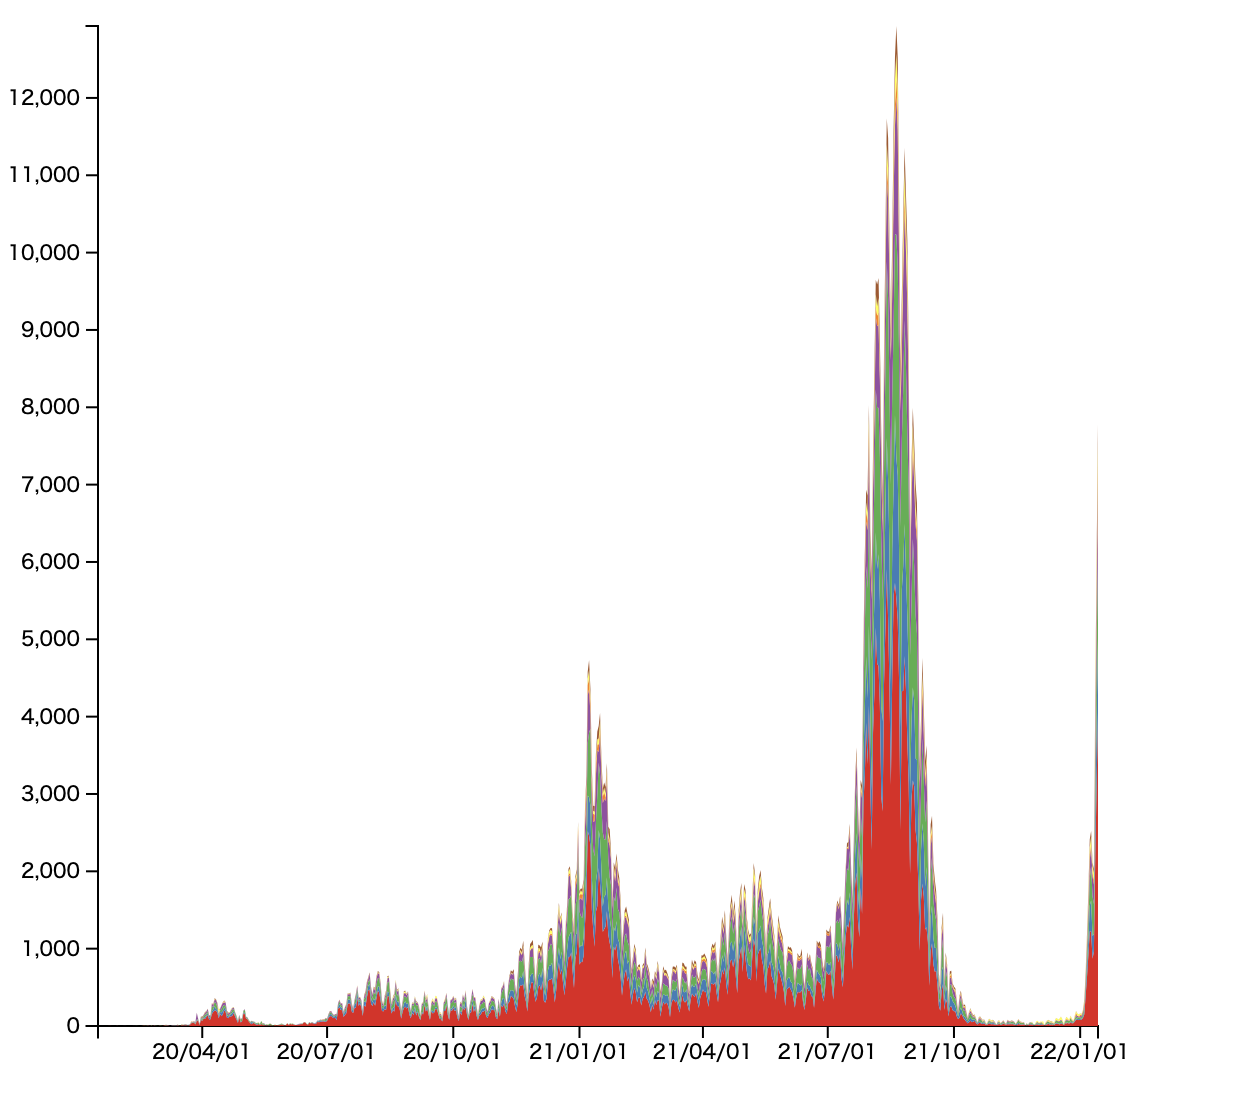
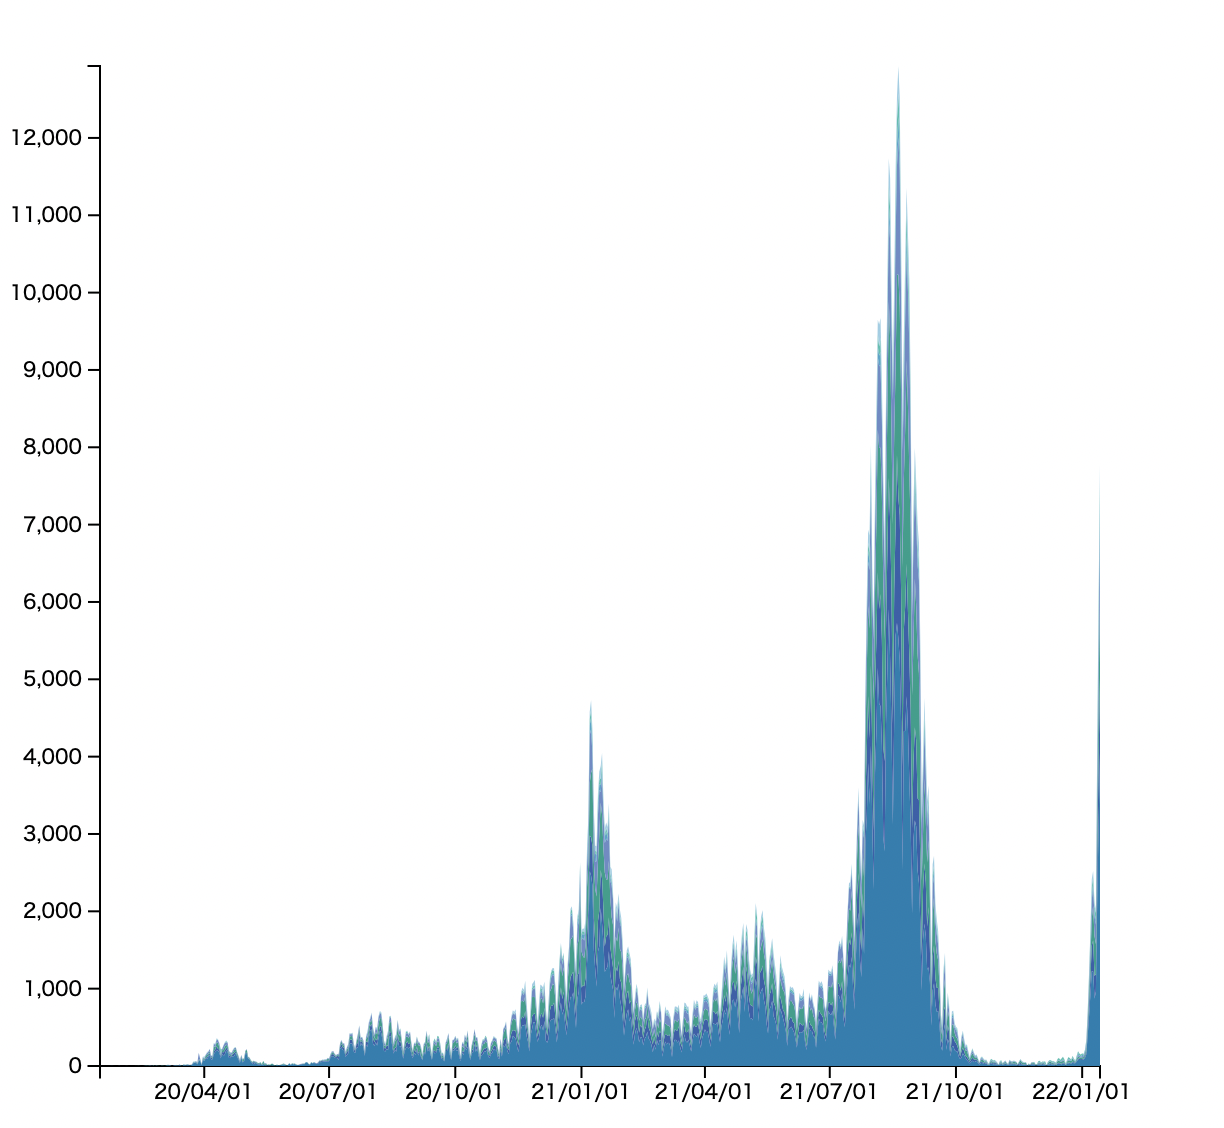
積み上げ面グラフ

Changed region(s): [[0.0, 0.0613, 0.9314, 0.9802]]

diff --git a/src/main.ts b/src/main.ts
@@ -64,8 +64,7 @@ function draw(data: DSVRowArray): void {
 
     const colorScale = d3.scaleOrdinal()
         .domain(keys)
-        // .range(['#3261AB', '#D5E0F1']);
-        .range(['#e41a1c','#377eb8','#4daf4a','#984ea3','#ff7f00','#ffff33','#a65628']);
+        .range(["#007FB1", "#3261AB", "#009F8C", "#6A8CC7", "#44A5CB", "#40BFB0", "#99CFE5"]);
 
     // 面を作成
     const area: any = d3.area()
